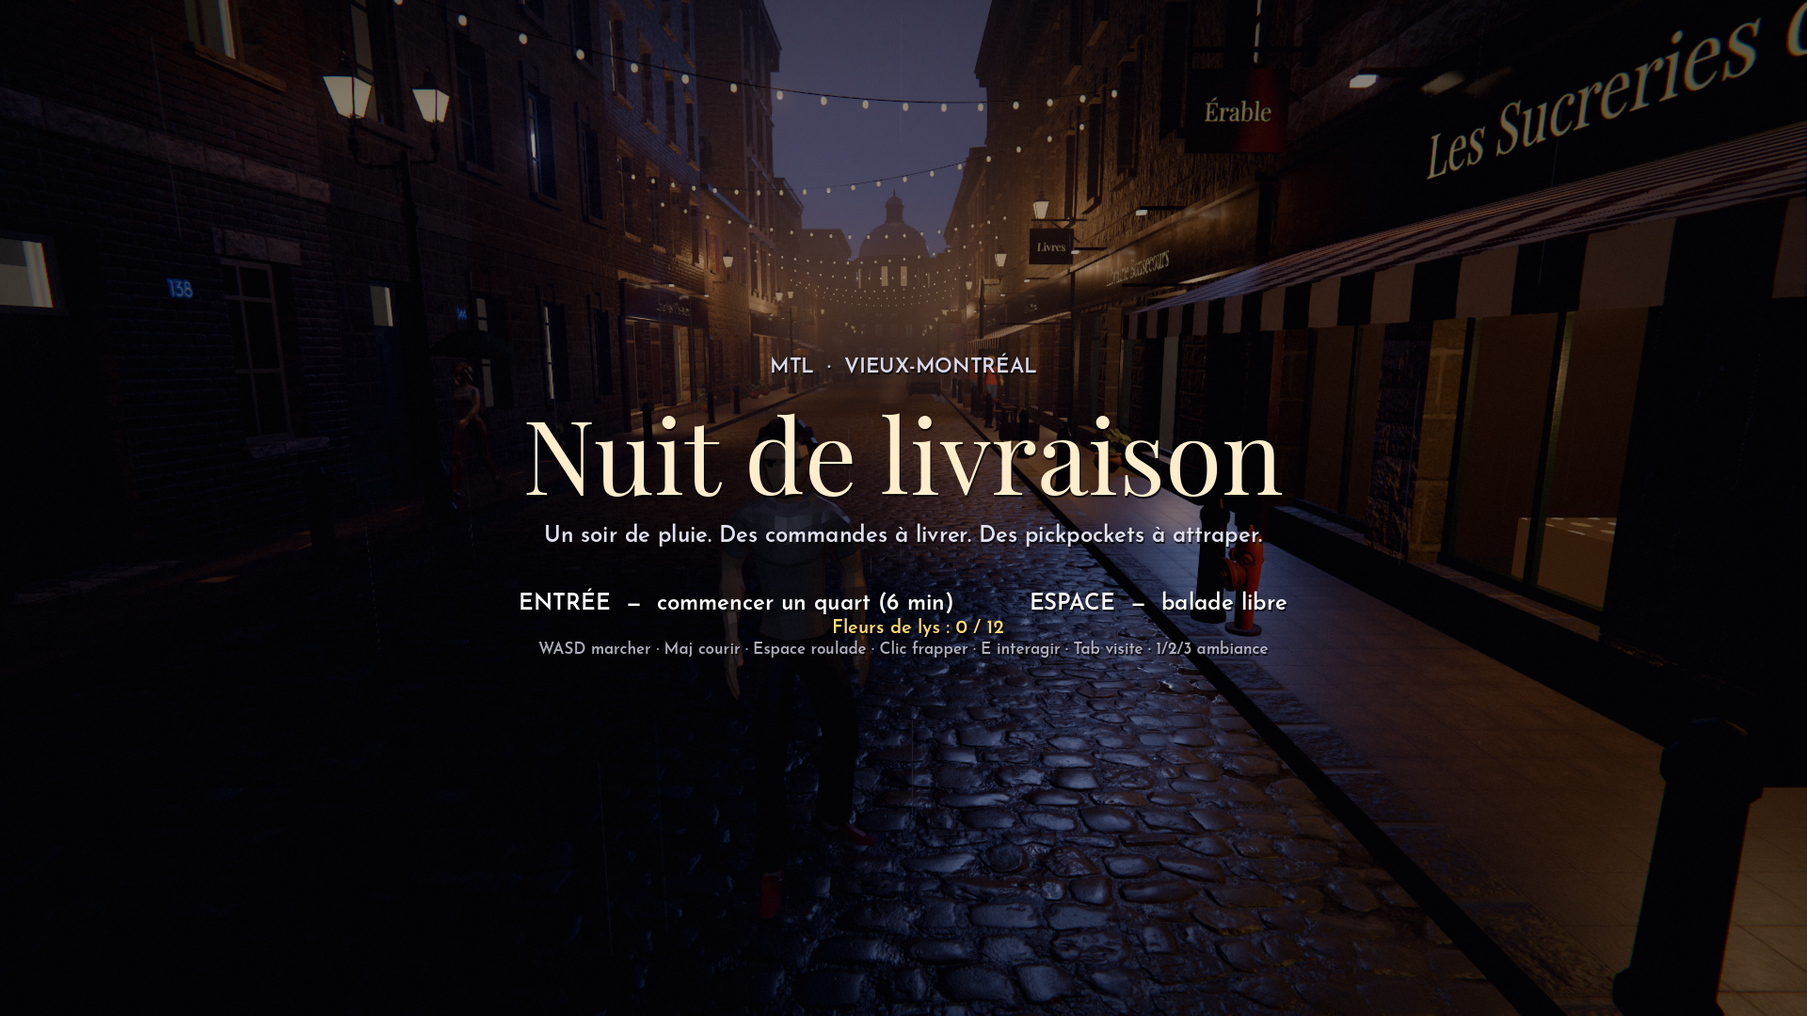
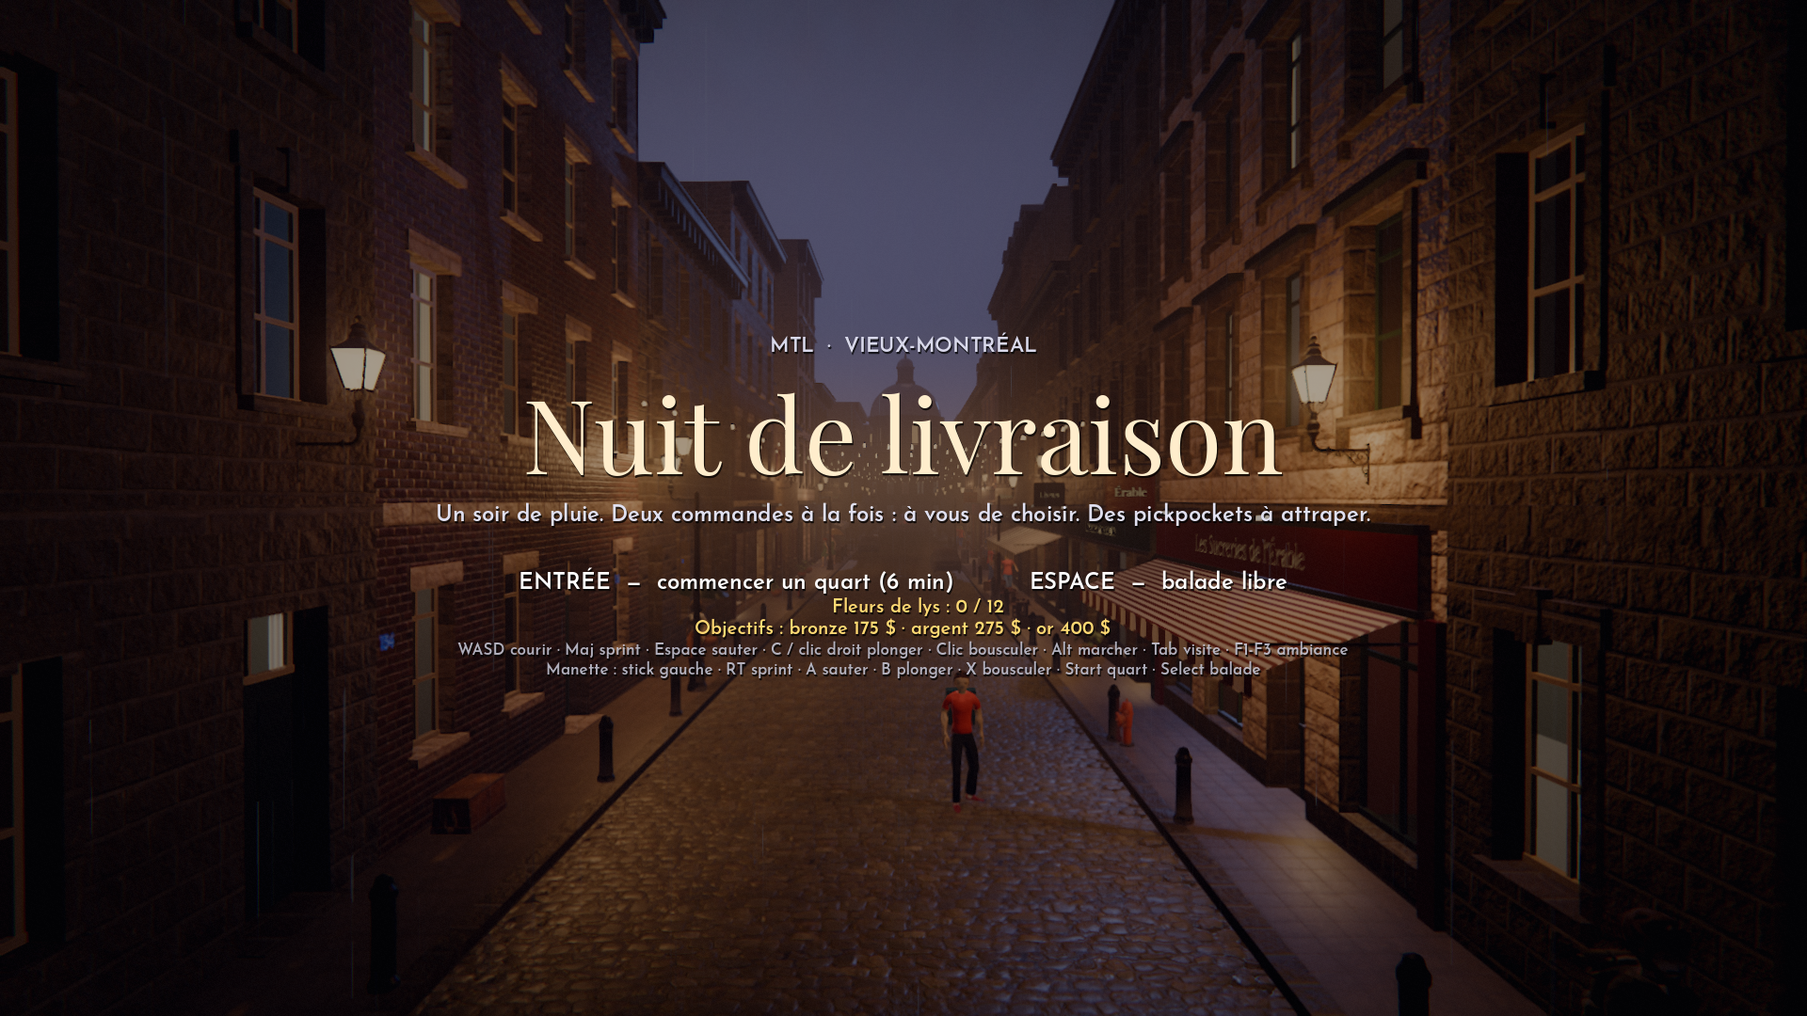
slice: drop undeliverable doors, every-door gate, smooth matte characters, docs
- _drop_buried_doors(): closing buildings span past the street to cover
  corners, so some doors landed behind a neighbouring building or in a
  1.6 m slot. Doors inside another building's collision box or off the
  three street corridors are dropped (76 -> 70). Found by the shift bot.
- doors_test.gd walks up to all 70 doors with real input -> DOORS OK.
- Characters: flat-shaded Quaternius normals averaged per position (once
  per shared mesh) and materials made matte; warmer courier fill light.
- Softer round run splashes; bold backpack logo.
- README game section rewritten (mechanics, controls, gates table);
  HANDOFF state for the rework; screenshots regenerated.

diff --git a/docs/superpowers/HANDOFF.md b/docs/superpowers/HANDOFF.md
@@ -2,7 +2,9 @@
 
 **Project:** MTL: Open Île — GTA-like free-roam downtown Montreal. Spec: `docs/superpowers/specs/2026-07-18-montreal-open-world-design.md`.
 
-**State (2026-10-29, later): SLICE IS NOW A GAME — "Nuit de livraison"** (branch `slice-saint-paul`, not pushed). The user approved the slice look ("a lot better", still room to improve) and asked to expand it with an actual game goal. Shipped: (1) **World**: `slice_main.gd` builds a sealed three-street quarter. rue Saint-Paul runs N–S from z 44 to −112, rue Saint-Vincent is the full cross street (centre z −52, x ±95), and rue de la Commune runs along the market (kerbs z −114.3/−121.7, x ±46). Closing buildings cap every street end. The code has a generic `_build_row` (facade line → buildings, shops from pools, lanterns, frontage dressing, the door registry `doors[]` with house numbers + blue plaques), `_sidewalk` (slab + kerb + ramped collision on any axis), `_road_strip` (crowned cobbles), `on_road()`, ghost-sign Label3Ds on corner party walls, merged bollards, kerb lamps on all three streets, and backdrop reserved rects. (2) **People**: `pedestrians.gd` rewritten. Walkers pace sidewalk segments (crossing roads at road height), step around the player, `check_bump`/`punch`/`tackle`, and a thief state that runs the road graph (N, X, S, W, E, CW, CE) away from the player with `thief_caught`/`thief_escaped` signals. `person.gd` gained hit/death roles. `player.gd` gained `interact_hook`, `punched`/`rolled` signals, `set_carrying` (paper bag), `facing()`, `rolling()`. (3) **Game** `game/slice/game/`: `game.gd` (`SliceGame`, the director: title → shift (360 s) / free → summary; orders shop→home with route-based limits, ramp, express, fragile, bag condition, combo, pay and tips and stars; thief timer, escape rules, rewards and fines; 12 fleurs; JSON save at `user://nuit_de_livraison.json`, overridable via the `SLICE_SAVE` env var; sfx), `hud.gd` (`SliceHud`, CanvasLayer 11 above the lens post: status, objective card + timer bar, bag bar, prompt, toasts, alert, edge Pointer, MiniMap, title and summary; Josefin at wght 600), `marker.gd` (beam + pulsing ring + light; the beam shader offsets VERTEX.y by +7 because CylinderMesh is centred), `fleur.gd` (extruded fleur-de-lys). Audio cues come from `pipeline/slice_audio.py::game_cues`. Gates: `slice/game_test.gd` headless → `GAME OK` (15 checks), `slice/game_shots.gd` → `docs/screenshots/game_*.png`, `slice/shots.gd` adds poses vincent/commune/corner. Perf about 16 ms (High) at 1080p, load about 4 s. KNOWN GAPS: low-poly Quaternius characters; no cars in the game loop; the thief sometimes outruns a standing player (by design: chase); order generation is random (shots placement is door-relative). NEXT ideas: vehicles (a cargo bike for longer routes), more districts from OSM through `_build_row`, NPC dialogue at the door, a daily seed + leaderboard.
+**State (2026-11-04): MECHANICS REWORK + POLISH** (branch `slice-saint-paul`, not pushed). The user said the game "looks OK" but should be improved "way more", called the mechanics "clunky", and asked for the rework to be done overnight without questions. Shipped, all in `game/slice/`: (1) **Movement** `player.gd` rewritten: jog default 4.3 m/s, Shift/RT sprint 7.0 on a 5 s stamina bar with a winded state (no sprint until 35 %), Space jump (6 m/s, about 0.85 m apex) with coyote time 0.13 s and a 0.16 s buffer, C/Ctrl/RMB dive (9 m/s burst, tackles thieves), the shove no longer roots the player, acceleration 28 / deceleration 22 with a reversal boost, air control 0.3, body lean, analog gamepad. API: `handoff()`, `knock(dir, strength)`, `add_trauma()`, `rolling()`, `knocked()`, `stamina`, signals `jumped`/`landed`. The camera has speed FOV and arm length, softened vertical follow, a landing dip, noise trauma shake, and `_shoulder_room()` raycasts that swap shoulders or pull in near walls (it used to sink into facades). The courier wears a red jacket (`SlicePerson.tint`) and a `LIVRAISON` backpack positioned from the Chest bone each frame, whose strip glows while carrying. A hidden foot fill light keeps the ground readable. `SlicePerson` smooths the flat-shaded Quaternius normals (MeshDataTool, once per shared mesh) and makes materials matte, and has `pose(role, frac)`, used for the airborne frame since the model has no jump clip. (2) **Loop** `game/game.gd`: two offers at once (amber regular, rose express, two `SliceMarker`s). Arriving at a beam takes that job and the other lapses (`OFFER_LIFE` 40 s). Pickup and delivery fire on arrival and E still works. Routes come from a street graph (`NODES`/`EDGES`, Dijkstra) via `route_points`/`route_len`, used for timers (`10 + route/3.7`, ramped, express ×0.72), pay, the HUD and the minimap line. Also: near-miss "Frôlé !" chained tips (`peds.near_misses`), bag damage from bumps (now including dives), hard landings and cars (`on_hit_by_car`), 1–5 stars, medals bronze 175 / silver 275 / gold 400 (best saved as `save_data.medal`), pause (Esc/P/Start, T/Select to the title; the game node is `PROCESS_MODE_ALWAYS`), a countdown tick, and `world.set_shift_progress()` blending blue hour into night over the shift. (3) **HUD** `game/hud.gd` rewritten: offer cards, stamina bar, `stamp()` (LIVRÉ !), `flash()`, `float_text()`, multi-target `Pointer`, `MiniMap` with route and cars, pause overlay, medal lines, bold Josefin in the summary. (4) **Traffic** `traffic.gd` (`SliceTraffic`): 4 Kenney cars (AnimatableBody3D) on fixed one-way routes (Saint-Paul southbound, Saint-Vincent westbound on the centre line; la Commune two-way at ±1.6 m). They brake for the player, walkers and cars in a 9 m lane scan (finite 7 m/s² braking, so a late step-out gets clipped and emits `hit_player`), honk after 1.2 s blocked, resolve junction deadlocks with `yield_t`, respawn at street ends out of sight, and have headlight spots, brake lamps, spinning re-pivoted wheels and engine audio. `set_enabled(false)` parks them for geometry tests. (5) **World** `slice_main.gd`: `MOODS` table plus `_apply_mood`, brighter grade (blue hour ambient 0.78 and exposure 1.22; night 0.62 and 1.3), F1–F3 moods, `set_attract()` (the title and summary play the spline tour), music. Walkers near the lens are hidden. (6) **Audio** `pipeline/slice_audio.py`: added `honk`, `graze`, `tick` cues and `music_night.wav` (8-bar D-minor jazz loop at 74 bpm, mono, about 2.3 MB). Existing wavs stay byte-identical. Gates: `game_test` GAME OK (now about 30 checks), new `move_test` MOVE OK, new `traffic_test` TRAFFIC OK, `walk_test` WALK OK, new `bot_test` BOT OK (the bot plays 360 s on real input: 11-12 deliveries, about 315-327 $, silver), new `doors_test` DOORS OK (walks to all 70 doors). The bot found closing-building doors buried behind corner buildings or in 1.6 m slots: `_drop_buried_doors()` now drops any door inside another building's collision box or off the three street corridors (76 -> 70 doors). Perf: GPU-bound, about 16.5 ms GPU at 1080p High, unchanged; `perf.gd` now disables vsync. KNOWN GAPS: characters are still low-poly (smoothed); Kenney cars are toy-styled; cars respawn "out of" street-end buildings when unseen; no NPC at the door on delivery; music not heard by a human yet (checked numerically: seamless, -20 dB RMS). NEXT ideas: a BIXI cargo bike, NPC handoffs at doors, more streets from OSM through `_build_row`, a daily seed + leaderboard.
+
+**Prior state (2026-10-29, later): SLICE IS NOW A GAME — "Nuit de livraison"** (branch `slice-saint-paul`, not pushed). The user approved the slice look ("a lot better", still room to improve) and asked to expand it with an actual game goal. Shipped: (1) **World**: `slice_main.gd` builds a sealed three-street quarter. rue Saint-Paul runs N–S from z 44 to −112, rue Saint-Vincent is the full cross street (centre z −52, x ±95), and rue de la Commune runs along the market (kerbs z −114.3/−121.7, x ±46). Closing buildings cap every street end. The code has a generic `_build_row` (facade line → buildings, shops from pools, lanterns, frontage dressing, the door registry `doors[]` with house numbers + blue plaques), `_sidewalk` (slab + kerb + ramped collision on any axis), `_road_strip` (crowned cobbles), `on_road()`, ghost-sign Label3Ds on corner party walls, merged bollards, kerb lamps on all three streets, and backdrop reserved rects. (2) **People**: `pedestrians.gd` rewritten. Walkers pace sidewalk segments (crossing roads at road height), step around the player, `check_bump`/`punch`/`tackle`, and a thief state that runs the road graph (N, X, S, W, E, CW, CE) away from the player with `thief_caught`/`thief_escaped` signals. `person.gd` gained hit/death roles. `player.gd` gained `interact_hook`, `punched`/`rolled` signals, `set_carrying` (paper bag), `facing()`, `rolling()`. (3) **Game** `game/slice/game/`: `game.gd` (`SliceGame`, the director: title → shift (360 s) / free → summary; orders shop→home with route-based limits, ramp, express, fragile, bag condition, combo, pay and tips and stars; thief timer, escape rules, rewards and fines; 12 fleurs; JSON save at `user://nuit_de_livraison.json`, overridable via the `SLICE_SAVE` env var; sfx), `hud.gd` (`SliceHud`, CanvasLayer 11 above the lens post: status, objective card + timer bar, bag bar, prompt, toasts, alert, edge Pointer, MiniMap, title and summary; Josefin at wght 600), `marker.gd` (beam + pulsing ring + light; the beam shader offsets VERTEX.y by +7 because CylinderMesh is centred), `fleur.gd` (extruded fleur-de-lys). Audio cues come from `pipeline/slice_audio.py::game_cues`. Gates: `slice/game_test.gd` headless → `GAME OK` (15 checks), `slice/game_shots.gd` → `docs/screenshots/game_*.png`, `slice/shots.gd` adds poses vincent/commune/corner. Perf about 16 ms (High) at 1080p, load about 4 s. KNOWN GAPS: low-poly Quaternius characters; no cars in the game loop; the thief sometimes outruns a standing player (by design: chase); order generation is random (shots placement is door-relative). NEXT ideas: vehicles (a cargo bike for longer routes), more districts from OSM through `_build_row`, NPC dialogue at the door, a daily seed + leaderboard.
 
 **Prior state (2026-10-29): RUE SAINT-PAUL VERTICAL SLICE BUILT** (branch `slice-saint-paul`, not pushed). The user asked overnight for "a visual game that looks great", starting with one location for approval, and said the previous look was "trash". Constraint: only use what is already installed or free. UE 5.8 was NOT installed (only the Epic launcher, which needs a sign-in), so the slice is built in the existing Godot 4.5. The KEY INSIGHT below (content, not engine, limits the look) is what the slice tests. Shipped in `game/slice/`, all built from code at startup: `slice_main.gd` (environment, street, buildings, lamps, string lights, market+dome, backdrop city, rain, extras, audio, HUD, fly-cam/tour, quality presets), `building.gd` (`SliceBuilding`: facade generator with real openings, reveals, frames, trims per style, cornices, mansard/gable/flat roofs, firewalls, dormers, storefronts with fascia signs, Label3D text, blade signs, awnings), `mesh_kit.gd` (`MeshKit`: per-material SurfaceTools, facade-frame boxes, lathe, slot filters on commit), `person.gd`/`player.gd`/`pedestrians.gd` (Quaternius CC0 characters, clips resolved by role, third-person controller, sidewalk walkers with umbrellas), shaders `wall` (triplanar PBR + weathering), `ground_wet` (puddles in height-map gaps and gutters, ripples), `window_interior` (interior mapping, shop shelving/tables, pendant lamps), `sky` (HDRI clouds above about 17 degrees plus a city-glow band; procedural overcast for day), `backdrop`, `awning`, `post` (vignette/grain/fringe). Assets: `pipeline/slice_assets.py` fetches Poly Haven + Quaternius CC0 (gitignored, hash-verified, writes mipmapped-VRAM `.import` stubs because Godot's 2D defaults shimmer); `pipeline/slice_audio.py` synthesizes rain/drips/wet steps. Perf (RX 6700S, 1080p): High (default) about 16 ms, Medium about 12 ms, Ultra about 20 ms. The big wins were a shadow budget (nearest 5 omnis, dual paraboloid), splitting frames/glass/signs into a non-shadow-casting mesh, and dropping PCSS `light_size`. FSR2 made it slower on this GPU. Gates: `slice/shots.gd` renders 10 poses to `docs/screenshots/slice_*.png` and prints FPS; `slice/perf.gd` profiles quality presets; main-game smoke still `SMOKE OK: 314 tiles`, pytest 121. A 60 s Movie Maker fly-through lives at `docs/video/slice_tour.mp4` (gitignored). KNOWN GAPS: Quaternius characters are low-poly against realistic surroundings; the backdrop city is plain boxes (visible only from the rooftops); no vehicles drive and there is no interaction beyond player moves; the street is flat (real Saint-Paul slopes); the cross-street buildings repeat. NEXT: the user judges the slice. If approved, decide whether to (a) keep Godot and grow the slice approach (OSM footprints feeding `SliceBuilding` style rules) or (b) resume the UE 5.8 spike with this slice as the bar to beat.
 

diff --git a/README.md b/README.md
@@ -17,22 +17,36 @@ No missions (yet). The game *is* the city: real street grid, real street names, 
 
 ## New: *Nuit de livraison* — the first game mode
 
-The slice is now a game. You're an on-foot courier working a 6-minute rainy evening shift in Old Montréal.
+The slice is now a game. You're an on-foot courier working a 6-minute rainy evening shift in Old Montréal, from blue hour into night.
 
 | | |
 |---|---|
-| ![Title screen](docs/screenshots/game_title.png) | ![Pickup: follow the amber beam](docs/screenshots/game_pickup.png) |
-| ![Delivering: order timer, bag condition, minimap](docs/screenshots/game_dropoff.png) | ![Crossroads of rue Saint-Paul and rue Saint-Vincent](docs/screenshots/slice_corner.png) |
+| ![Title over the cinematic tour](docs/screenshots/game_title.png) | ![Two offers at once: pick one by running into its beam](docs/screenshots/game_pickup.png) |
+| ![Delivering: order timer, bag condition, route on the minimap](docs/screenshots/game_dropoff.png) | ![LIVRÉ ! stamp and star rating](docs/screenshots/game_delivered.png) |
 
-- **Deliver**: orders pop up from the quarter's 24 shops (*trois poutines*, *un bouquet de pivoines*, *une caisse de vinyles*...) for its 52 street addresses. Pick up at the amber beam, deliver to the cyan one, and press **E** at the door.
-- **Get paid**: base pay grows with distance. Tips scale with time left and bag condition. On-time streaks multiply tips, express orders pay double tips on a tighter clock, and the clock tightens as the shift goes on.
-- **Don't wreck the bag**: running into pedestrians or rolling with the bag damages it, and fragile items (wine, vinyl, art) suffer more. Punching passers-by costs a fine.
-- **Au voleur !** Pickpockets strike now and then. They sprint through the street graph away from you; punch or roll into them for a reward before they lose you.
-- **Explore**: 12 gilt fleurs-de-lys are hidden around the quarter, saved across sessions along with your best shift.
-- **The quarter**: rue Saint-Paul, a full rue Saint-Vincent crossing it, and rue de la Commune along the Marché Bonsecours, all sealed by closing buildings. It has blue enamel house numbers, faded painted ads on party walls, and about 34 pedestrians.
-- **Interface**: HUD with cash and clock, an objective card with order timer, an edge-of-screen target pointer, a minimap, and title and end-of-shift screens. Sound cues (order ping, cash chime, police whistle...) are synthesized.
+- **Choose your job**: two offers light up at once as beams at their shops: amber for regular, rose for express. Each card shows the item, the destination street, the route length and an estimated pay. Run into either beam to take that job; the other one lapses. Pickup and drop-off happen as soon as you arrive (**E** also works).
+- **Move like a courier**: you jog by default and sprint with **Shift** on a 5-second stamina bar (empty it and you're winded until it refills to 35 %). **Space** jumps, with coyote time and input buffering. **C**, **Ctrl** or right-click dives. Acceleration is quick, reversals plant and push off, and you lean into turns. Gamepad works too: left stick, RT sprint, A jump, B dive, X shove, Y interact, Start for a shift or pause.
+- **Get paid**: base pay grows with the route length along the street graph. Tips scale with time left and bag condition. On-time streaks multiply tips, express orders pay double tips on a tighter clock, and the clock tightens as the shift goes on. The last 8 seconds tick. Each drop-off gets a 1–5 star rating.
+- **Weave, don't bump**: sprinting close past people while carrying pays small *Frôlé !* style tips that chain. Bumping them, diving with the bag, hard landings and cars all damage it, and fragile items (wine, vinyl, art) suffer more. Shoving passers-by costs a fine.
+- **Traffic**: cars nose through one-way rue Saint-Paul and rue Saint-Vincent and two-way rue de la Commune. They brake for anyone in the lane and honk at a courier blocking them. Step out too late and they clip you. Headlights and brake lamps reflect on the wet cobbles.
+- **Au voleur !** Pickpockets strike now and then. They run the street graph away from you in bursts and tire in between. Sprint them down, then dive or shove for a 25 $ reward.
+- **Goals**: bronze 175 $, silver 275 $ and gold 400 $ medals, plus your best shift, saved. Twelve gilt fleurs-de-lys are hidden around the quarter.
+- **Interface**: HUD with cash, clock, streak, offer cards, an order timer, bag and stamina bars, a centred *LIVRÉ !* stamp, floating world text, a hit flash, edge-of-screen pointers to every target, and a minimap with the walking route and the cars. The title and end-of-shift screens play over the cinematic tour. **Esc** pauses.
+- **Sound**: a synthesized late-night jazz loop (Rhodes, upright bass, brushes) under the rain, plus synthesized cues: order ping, cash chime, police whistle, car horn, near-miss whoosh, countdown tick.
+- **The courier**: a red jacket and an insulated *LIVRAISON* backpack whose status strip glows while an order is inside. The camera swaps shoulders and pulls in near walls, widens its FOV at a sprint and shakes on impacts.
 
-Run `play_slice.bat` and press **Enter** for a shift or **Space** for free roam. Gameplay gate (headless): `SLICE_SAVE=user://test_save.json tools/godot/godot_console.exe --headless --fixed-fps 60 --path game --script res://slice/game_test.gd` → `GAME OK`.
+Run `play_slice.bat` and press **Enter** for a shift or **Space** for free roam.
+
+Gates (headless, `tools/godot/godot_console.exe --headless --fixed-fps 60 --path game --script res://slice/<gate>.gd`):
+
+| Gate | Checks | Pass line |
+|---|---|---|
+| `game_test.gd` (with `SLICE_SAVE=user://test_save.json`) | street-graph routes, two offers, walk-in pickup, auto delivery, pay and stars, pause, car hit, thief, fleur, end of shift, save | `GAME OK` |
+| `move_test.gd` | jog and sprint speeds, stamina drain, winded state and regen, jump apex and air time, dive burst, reversal time, clean stop | `MOVE OK` |
+| `traffic_test.gd` | cars move, stop short of a courier in the lane, wait and honk, pull away, clip a late step-out | `TRAFFIC OK` |
+| `walk_test.gd` | real-input walk across kerbs and sidewalk ends on all three streets | `WALK OK` |
+| `doors_test.gd` | walks up to every one of the 70 delivery doors with real input | `DOORS OK` |
+| `bot_test.gd` (with `SLICE_SAVE=user://bot_save.json`) | a bot plays a whole shift on real input; every door it's sent to must be reached (baseline: 11 deliveries, about 326 $) | `BOT OK` |
 
 ## New: the Rue Saint-Paul vertical slice
 
@@ -51,7 +65,7 @@ One hand-dressed Old-Montréal street at blue hour, just after rain. It's the ne
 - **~60 fps at 1080p** on an RX 6700S laptop (High preset; F5 cycles Medium/High/Ultra). Only the 5 lamps nearest the camera render shadow maps.
 
 Run it: `.venv/Scripts/python -m pipeline.slice_assets` once (fetches the gitignored CC0 assets, hash-verified), then `play_slice.bat`.
-Controls: WASD walk · Shift run · Space roll · LMB punch · E wave · V fly-cam · Tab cinematic tour · 1/2/3 mood · R rain · F5 quality · H help.
+Controls: WASD run · Shift sprint · Space jump · C/RMB dive · LMB shove · Alt walk · E interact · Esc pause · V fly-cam · Tab cinematic tour · F1–F3 mood · R rain · F5 quality · H help.
 Screenshots: `tools/godot/godot_console.exe --path game --resolution 1920x1080 --script res://slice/shots.gd`. Fly-through video: `... res://slice/slice.tscn --write-movie out.avi --fixed-fps 30 -- --tour`.
 
 ## How it works
@@ -82,6 +96,7 @@ HRDEM elevation ┘     offline, deterministic     glTF tiles         runtime
 - [x] **M8** — Realism Graphics I: procedural sky/water/terrain shaders (fbm clouds & sun disc, analytic waves, grass/dirt/rock blend + dirt paths), CC0 wall/road/sidewalk textures with per-building facade variation, 16,498 OSM trees & 21 benches via a pooled MultiMesh prop renderer, white-car colormap fix
 - [x] **M9** — Realism Graphics II: warm sun/shadow/fog grade (shadow reach, contrast/saturation grade, volumetric night fog), crosswalks & manhole decals & ground-floor doors, fake window interiors & camera-near grass, CC0 player model, storefront awnings, lamp-colormap safety net
 - [x] **Game** — *Nuit de livraison*: courier shifts (orders, timers, tips, streaks, express), pickpocket chases, hidden fleurs-de-lys, HUD/minimap/pointer, saves; the quarter expanded to three streets
+- [x] **Game II** — mechanics rework: courier movement (jog/sprint/stamina, jump, dive, gamepad), two-offer choice with walk-in pickup, near-miss tips, live traffic, medals, pause, attract-mode title, music; shift bot gate
 - [x] **Slice** — Rue Saint-Paul vertical slice: procedural Old-Montréal facades with interior-mapped windows, rain-wet cobbles, lamps, pedestrians, a third-person player, ~60 fps (new visual bar; see above)
 - [x] **M10a** — Traffic: pipeline exports a road + sidewalk nav graph (`nav.json`, tiles byte-identical); 40 pooled cars drive real lanes on the right, queue at real signal positions, yield at junctions, brake for you, and collide with your car; pooled headlights at night
 
